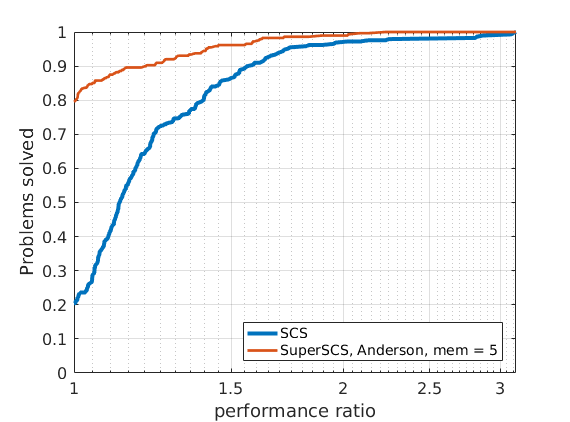
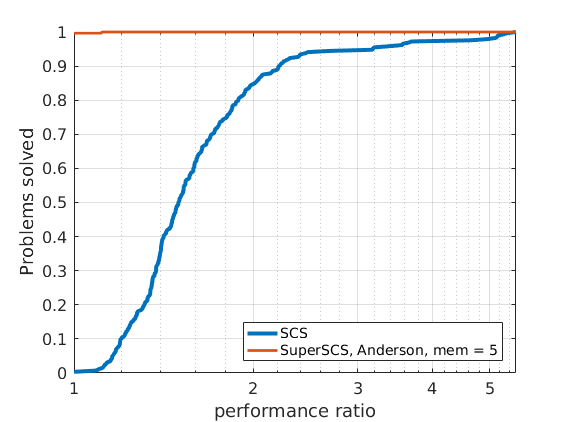
:wrench: log regression [ci skip]

diff --git a/pages/contributing_page.h b/pages/contributing_page.h
@@ -9,31 +9,33 @@
  * 
  * \section sec_style_guide Style guide
  * 
- * \subsection sec_style_in_c C coding
+ * \subsection sec_style_in_c C coding style
  * 
  * SuperSCS follows the following naming convention:
  * 
- * - typed structures are camel-case, e.g., #ScsCone and #ScsData
- * - all functions start with <code>scs_</code> or <code>superscs></code>; 
- *   this is because C lacks namespaces. 
+ * - Typed structures are camel-case, e.g., #ScsCone and #ScsData
+ * - All functions start with <code>scs_</code> or <code>superscs_</code>; 
+ *   this is because C lacks namespaces, so
  *   we need to avoid name clashes with other libraries
- * - all function names are lowercare, e.g., #scs_init_data
- * - function names must be as informative as possible about the 
- *   underlying functionality, e.g., #scs_matrix_multiply.
- * - variables defined via preprocessor directives are all uppercase
- *   and start with \c SCS_ (e.g., #SCS_SOLVED)
- * - static variables are all-lowercase and separated by underscores,
- *   e.g., 
- *
- * ~~~~~
- * static char scs_yaml_variable_name[SCS_YAML_CHAR_LEN];
- * ~~~~~
- *
- * - Names of unit tests start with \c test_
- * - no function or variable names are allowed to start with an underscore
- * - try to give all variables, even local ones, names that reveal their 
- *   designation, e.g., \c norm_E_Atran_yb instead or \c temp1.
- *
+ * - Guards in header files should start with <code>SCS_</code>
+ * - All function names are lowercare, e.g., #scs_init_data. Don't use names like 
+ *   <code>iCantReadThis</code>.
+ * - Function names must be as informative as possible about the 
+ *   underlying functionality, e.g., #scs_matrix_multiply
+ * - Variables defined via preprocessor directives are all uppercase
+ *   and start with \c SCS_ (e.g., #SCS_SOLVED) 
+ * - Names of unit tests start with <code>test_</code>
+ * - No function or variable names are allowed to start with an underscore
+ * - Give all variables, even local ones, names that reveal their 
+ *   designation, e.g., \c norm_E_Atran_yb instead of \c t.
+ * - static variables are all-lowercase and separated by underscores
+ * - Write one statement per line, e.g., avoid <code>int a=1, b=2, c;</code>
+ * - Do not default if tests for nonzero, i.e., use <code>if (a != 0)</code>
+ *   instead of <code>if (a)</code>; the same holds for non-<code>NULL</code> tests
+ * - Write short functions (we still need to do some work towards that direction)
+ * - Prefer <code>#if defined()</code> instead of <code>#ifdef</code>
+ * - Do not hard code any data in the code; use preprocessor directives
+ * 
  *  
  * \subsection sec_style_documentation API Documentation in C
  * 
@@ -196,7 +198,24 @@
  *     - \htmlonly<span><img src="https://assets-cdn.github.com/images/icons/emoji/unicode/1f6a7.png" style="height:15px"/></span>\endhtmlonly 
  *       <code>:construction:</code> work in progress
  *
+ * 
+ * \subsection sec_git_contributing Contributing to SuperSCS
+ * 
+ * In order to contribute and actively participate in the development of 
+ * SuperSCS, you first need to [fork](https://github.com/kul-forbes/scs/fork) 
+ * the repository on github:
+ * 
+ * \htmlonly
+ * <iframe 
+ *   src="https://ghbtns.com/github-btn.html?user=kul-forbes&repo=scs&type=fork&count=true&size=large" 
+ *   frameborder="0" scrolling="0" width="158px" height="30px"></iframe>
+ * \endhtmlonly
  *
+ * This way you will obtain a copy of SuperSCS in your user account.
+ * 
+ * You will be able to work there and submit a pull request once you complete 
+ * your changes.
+ * 
  * \subsection sec_git_merging_master Before merging into master
  * 
  * Before merging into <code>master</code>, use the following checklist:
@@ -234,6 +253,72 @@
  * 
  * \subsection sec_performing_benchmarks_matlab Benchmarking in MATLAB
  * 
+ * Benchmarking scripts are found in <code>tests/profiling_matlab</code>.
+ * 
+ * The files are organised in three main subfolders:
+ * 
+ * - <code>experimenters/</code> experimenters  call the  profile runners 
+ *     with different solver parameters.
+ * - <code>profile_helpers/</code> functions used to run profiling problems
+ * - <code>profile_runners/</code> functions which call the profile helpers 
+ *     with different problem parameters; these define a suite of numerical 
+ *     experiments
+ * 
+ * 
+ * \subsubsection sec_performing_benchmarks_matlab_helpers Helpers
+ * 
+ * Profile helpers are functions of the following form:
+ * 
+ * ~~~~~
+ * out = profile_lasso(problem, solver_options);
+ * ~~~~~
+ * 
+ * These accept two arguments: a <code>problem</code> structure with the problem
+ * parameters and a <code>solver_options</code> with the solver configuration
+ * (as instance of SuperScsConfig).
+ * 
+ * \subsubsection sec_performing_benchmarks_matlab_runners Runners
+ * 
+ * Runners are saved in <code>profile_runners/</code>. Profile runners execute a
+ * diverse collection of problems by invoking profile helper functions.
+ * 
+ * Profile runners are functions of the form:
+ * 
+ * ~~~~~
+ * profile_runner_logreg(solver_options, id, runner_options);
+ * ~~~~~
+ * 
+ * The first argument is an instance of <code>SuperSCSConfig</code> which is 
+ * passed to all invocations of <code>profile_runner_*</code>.
+ * 
+ * The second argument is an (integer) identifier of the runner. The results will
+ * be stored in a <code>.mat</code> file at <code>profile_results/{id}.mat</code>.
+ * 
+ * These mat files are not put under version control.
+ * 
+ * The third argument is a structure with runner configuration parameters.
+ * 
+ * These typically are ranges of the problem parameters to be tested, number of 
+ * repetitions of each run and more.
+ * 
+ * Profile runners store some general statistics in the CSV file 
+ * [register.csv](https://github.com/kul-forbes/scs/blob/master/tests/profiling_matlab/profile_results/register.csv) 
+ * which can be used for look-up purposes.
+ * 
+ * \subsubsection sec_performing_benchmarks_matlab_experimenters Experimenters
+ * 
+ * Lastly, we have the <em>experimenters</em>. These are stored in <code>experimenters/</code>.
+ * 
+ * An experimenter is a MATLAB script that calls a profile runner with different
+ * solver parameters. 
+ * 
+ * 
+ * \subsubsection sec_performing_benchmarks_matlab_plots Plotting results
+ * 
+ * Once an experimenter has completed successfully, we may create performance
+ * plots using <code>perf_profile_plot</code>
  * 
  * \subsection sec_performing_benchmarks_python Benchmarking in Python
+ * 
+ * 
  */

diff --git a/tests/profiling_matlab/profile_runners/profile_runner_logreg.m b/tests/profiling_matlab/profile_runners/profile_runner_logreg.m
@@ -17,6 +17,7 @@ function profile_runner_logreg(solver_options, id, runner_options)
 %                profile_lasso
 % runner_options this is a structure with the experiment options; it is a
 %                structure with the following fields:
+%           name  problem name
 %           reps  repetitions of each run (on random data) [default: 2]
 %         span_p  the range of `p` values to be tested [default: [80 120]]
 %         span_b  the values of `q` are computed as `b * p` where the span
@@ -46,6 +47,8 @@ span_density   = [0.05 0.1];
 span_w_density = [0.1 0.25]; 
 span_sigma     = [0.1 3];
 
+name = 'LOGREG';
+
 if nargin >=3
     if isfield(runner_options, 'reps'), reps = runner_options.reps; end
     if isfield(runner_options, 'span_p'), span_p = runner_options.span_p; end
@@ -54,6 +57,7 @@ if nargin >=3
     if isfield(runner_options, 'span_density'), span_density = runner_options.span_density; end
     if isfield(runner_options, 'span_w_density'), span_w_density = runner_options.span_w_density; end
     if isfield(runner_options, 'span_sigma'), span_sigma = runner_options.span_sigma; end
+    if isfield(runner_options, 'name'), name = runner_options.name; end
 end
 
 problem_data = cartesian(span_p, span_b, span_lam, span_density, ...
@@ -88,4 +92,4 @@ delete(solver_options.dumpfile);
 fname = [get_scs_rootdir() 'tests/profiling_matlab/profile_results/' ...
     num2str(id) '.mat'];
 save(fname, 'records') % save `records` to file {id}.mat
-register_profile_data(solver_options, 'LOGREG-X', id, records);
+register_profile_data(solver_options, name, id, records);

diff --git a/pages/benchmarks_page.h b/pages/benchmarks_page.h
@@ -125,13 +125,24 @@
  * <table border="0">
  *  <tr>
  *      <td style="padding:1px">
- *          <img src="images/logreg/logreg-broyden-50-100.png" alt="logreg-broyden-50-100" width="95%"/>
+ *          <img src="images/logreg/logreg-broyden-50.png" alt="logreg-broyden-50" width="95%"/>
+ *      </td>
+ *      <td style="padding:1px">
+ *          <img src="images/logreg/logreg-broyden-100.png" alt="logreg-broyden-100" width="95%"/>
  *      </td>
  *      <td style="padding:1px">
  *          <img src="images/logreg/logreg-anderson-5.png" alt="logreg-anderson-5" width="95%"/>
  *      </td>
+ *  </tr>
+ *  <tr>
  *      <td style="padding:1px">
  *          <img src="images/logreg/logreg-anderson-10.png" alt="logreg-anderson-10" width="95%"/>
+ *      </td>
+ *      <td style="padding:1px">
+ *          <img src="images/logreg/logreg-anderson-15.png" alt="logreg-anderson-15" width="95%"/>
+ *      </td>
+ *      <td style="padding:1px">
+ *          <img src="images/logreg/logreg-anderson-cmp.png" alt="logreg-anderson-cmp" width="95%"/>
  *      </td>
  *  </tr>
  * </table>

diff --git a/pages/installation_page.h b/pages/installation_page.h
@@ -138,10 +138,10 @@
  * #include "scs.h"
  * 
  * int main(int argc, char** argv) {
- *     Data * data = SCS_NULL;
- *     Cone * cone = SCS_NULL;
- *     Info * info = scs_init_info();
- *     Sol * sol = scs_init_sol();
+ *     ScsData * data = SCS_NULL;
+ *     ScsCone * cone = SCS_NULL;
+ *     ScsInfo * info = scs_init_info();
+ *     ScsSolution * sol = scs_init_sol();
  *     const char * filepath = "path/to/my_problem.yml";
  *     scs_int status;
  * 
@@ -166,6 +166,12 @@
  * }
  * ~~~~~
  * 
+ * gcc -Iinclude superscs_test.c \
+  -L./out/ \
+  -o superscs_test \
+  -l:libscsindir.a \
+  -llapack -lblas -lm -lrt
+ * 
  * Let us now compile and link to the static library <code>out/libscsdir.a</code>
  * 
  * ~~~~~
@@ -185,5 +191,6 @@
  *   statically. 
  * - <b>-llapack -lblas</b> these are the <a href="http://www.netlib.org/blas/">blas</a> 
  *   and <a href="http://www.netlib.org/lapack/">lapack</a> linear algebra libraries.
- * - <b>-lm -lrt</b> ?
+ * - <b>-lm -lrt</b> these are the math and real-time libraries; the latter is 
+ *   optional.
  */

diff --git a/pages/mainpage.h b/pages/mainpage.h
@@ -70,7 +70,7 @@
  * - [continuous integration](https://travis-ci.org/kul-forbes/scs) on Travis CI
  * - [coverage reports](https://codecov.io/gh/kul-forbes/scs) on Codecov
  * - [code quality reports](https://www.codacy.com/app/alphaville/scs/dashboard) on codacy
- * - lcov report using <code>make cov</code>
+ * - lcov report using <code>make cov COV=1</code>
  * 
  * 
  * \subsection sec-contributing-to-superscs Contributing
@@ -102,5 +102,6 @@
  * A. Themelis and P. Patrinos, <em>SuperMann: a superlinearly convergent algorithm for 
  * finding fixed points of nonexpansive operators</em>, 
  * <a href="https://arxiv.org/abs/1609.06955">arXiv:1609.06955</a>, 2017.
+ * 
  */
 

diff --git a/pages/socp_page.h b/pages/socp_page.h
@@ -105,7 +105,7 @@
  * Next, we may modify some of the default settings 
  * 
  * ~~~~~{.c}
- * scs_set_default_settings(data);                // default settings
+ * scs_set_default_settings(data);          // default settings
  * data->stgs->eps = 1e-9;                  // override defaults
  * data->stgs->rho_x = 1;
  * data->stgs->verbose = 0;
@@ -121,7 +121,7 @@
  * Last thing to define is the second-order cone \f$\mathcal{K}\f$
  * 
  * ~~~~~{.c}
- * cone = malloc(sizeof (Cone));
+ * cone = malloc(sizeof (ScsCone));
  * cone->ssize = 0;
  * cone->ed = 0;
  * cone->ep = 0;

diff --git a/pages/directions_page.h b/pages/directions_page.h
@@ -59,7 +59,7 @@
  * Lastly, \f$R\f$ is the \ref superscs-algorithmic-solution "fixed point operator".
  * 
  * \note All directions which require a finite-memory cache are supported by 
- * #SCS_DIRECTION_MEMORY.
+ * #scs_direction_cache.
  * 
  * \section sec-full-broyden Full Broyden
  * Full Broyden method (for experimental purposes only, not recommended unless the 

diff --git a/pages/cones_page.h b/pages/cones_page.h
@@ -304,7 +304,7 @@
  * For example, in order to define \f$\mathcal{K}^{\mathrm{q}}_{3,7,9}\f$ we do
  * 
  * ~~~~~
- * Cone * cone;
+ * ScsCone * cone;
  * scs_int number_of_soc_cones = 3;
  * cone = scs_malloc(sizeof(*cone));
  * cone->qsize = number_of_soc_cones;
